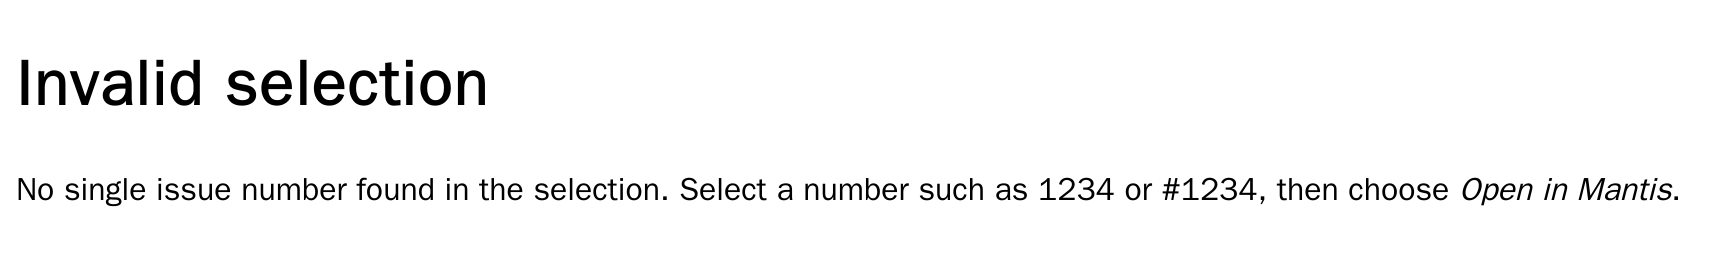
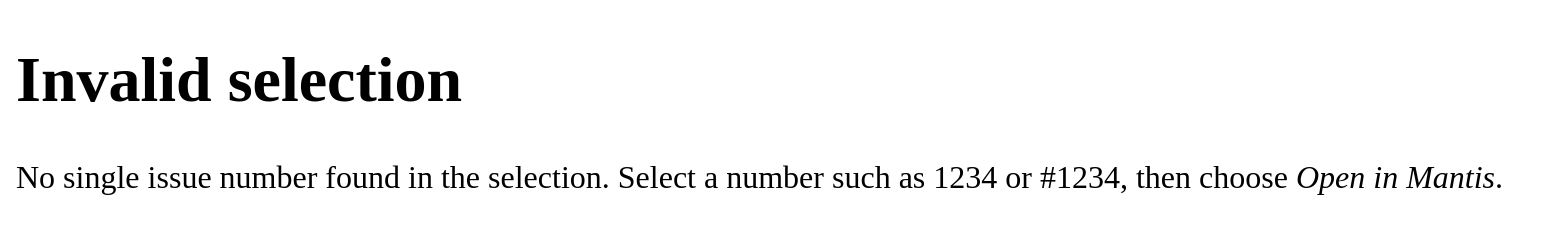
docs: hint page screenshot in Firefox's default serif font
The hint page has no styles, so Firefox shows it in its default serif font;
this host's fontconfig mapped serif to WenQuanYi Zen Hei, a sans-serif CJK
font, and the CI runner to another. The tour now sets Liberation Serif (the
Times New Roman clone), so the shot shows what users see on every host.

Changed region(s): [[0.0, 0.6885, 0.9897, 0.8033], [0.0, 0.2295, 0.3093, 0.4303]]

diff --git a/e2e/playwright.docs.config.ts b/e2e/playwright.docs.config.ts
@@ -25,6 +25,9 @@ export default defineConfig({
     locale: 'en-GB',
     launchOptions: {
       env: { ...process.env, LANG: 'en_GB.UTF-8', LANGUAGE: 'en_GB:en', LC_ALL: 'en_GB.UTF-8' },
+      // The hint page has no styles, so it shows Firefox's default font (serif):
+      // the Times New Roman clone, not whatever the host's fontconfig maps serif to.
+      firefoxUserPrefs: { 'font.name.serif.x-western': 'Liberation Serif' },
     },
     timezoneId: 'Europe/Vienna',
     contextOptions: { reducedMotion: 'reduce' },
